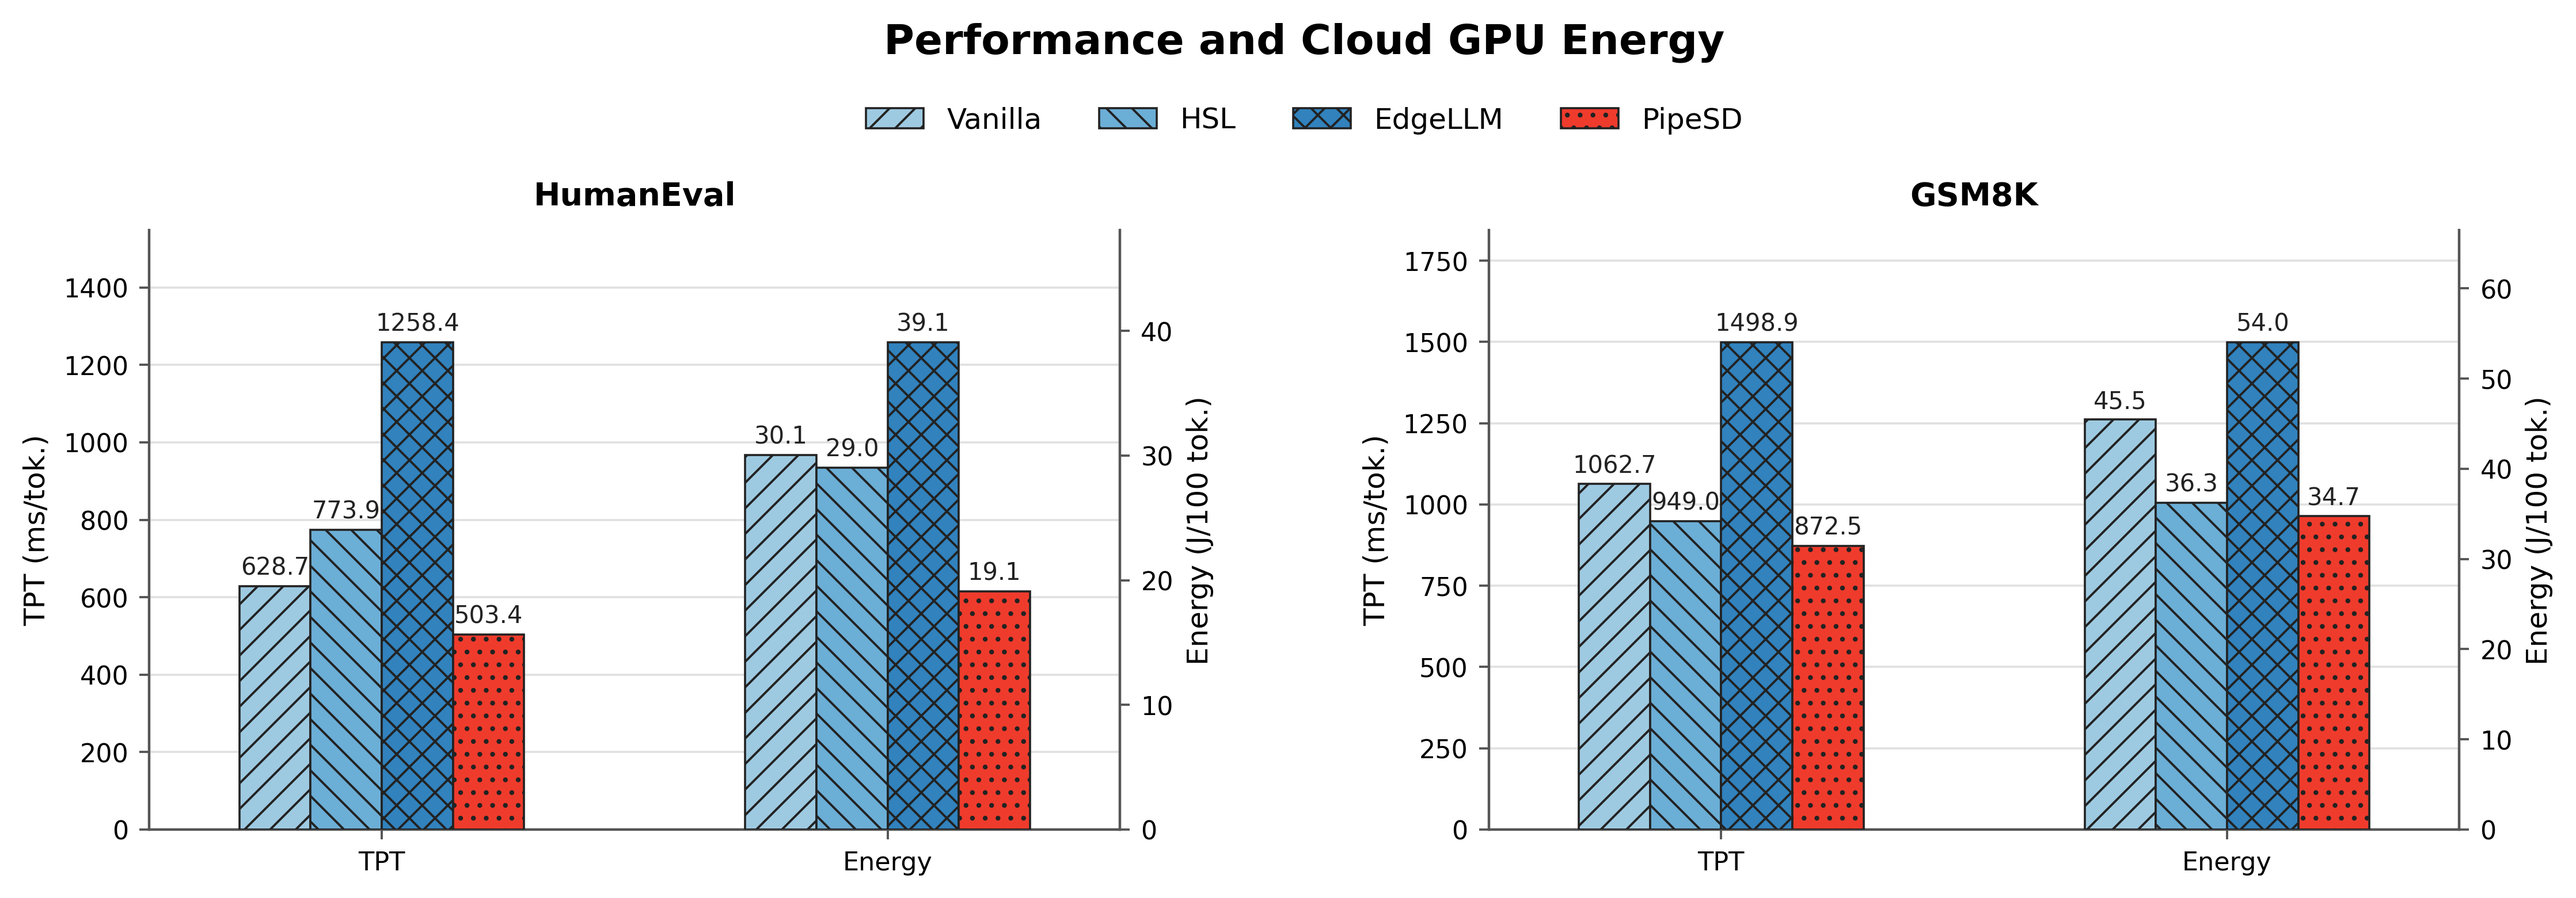
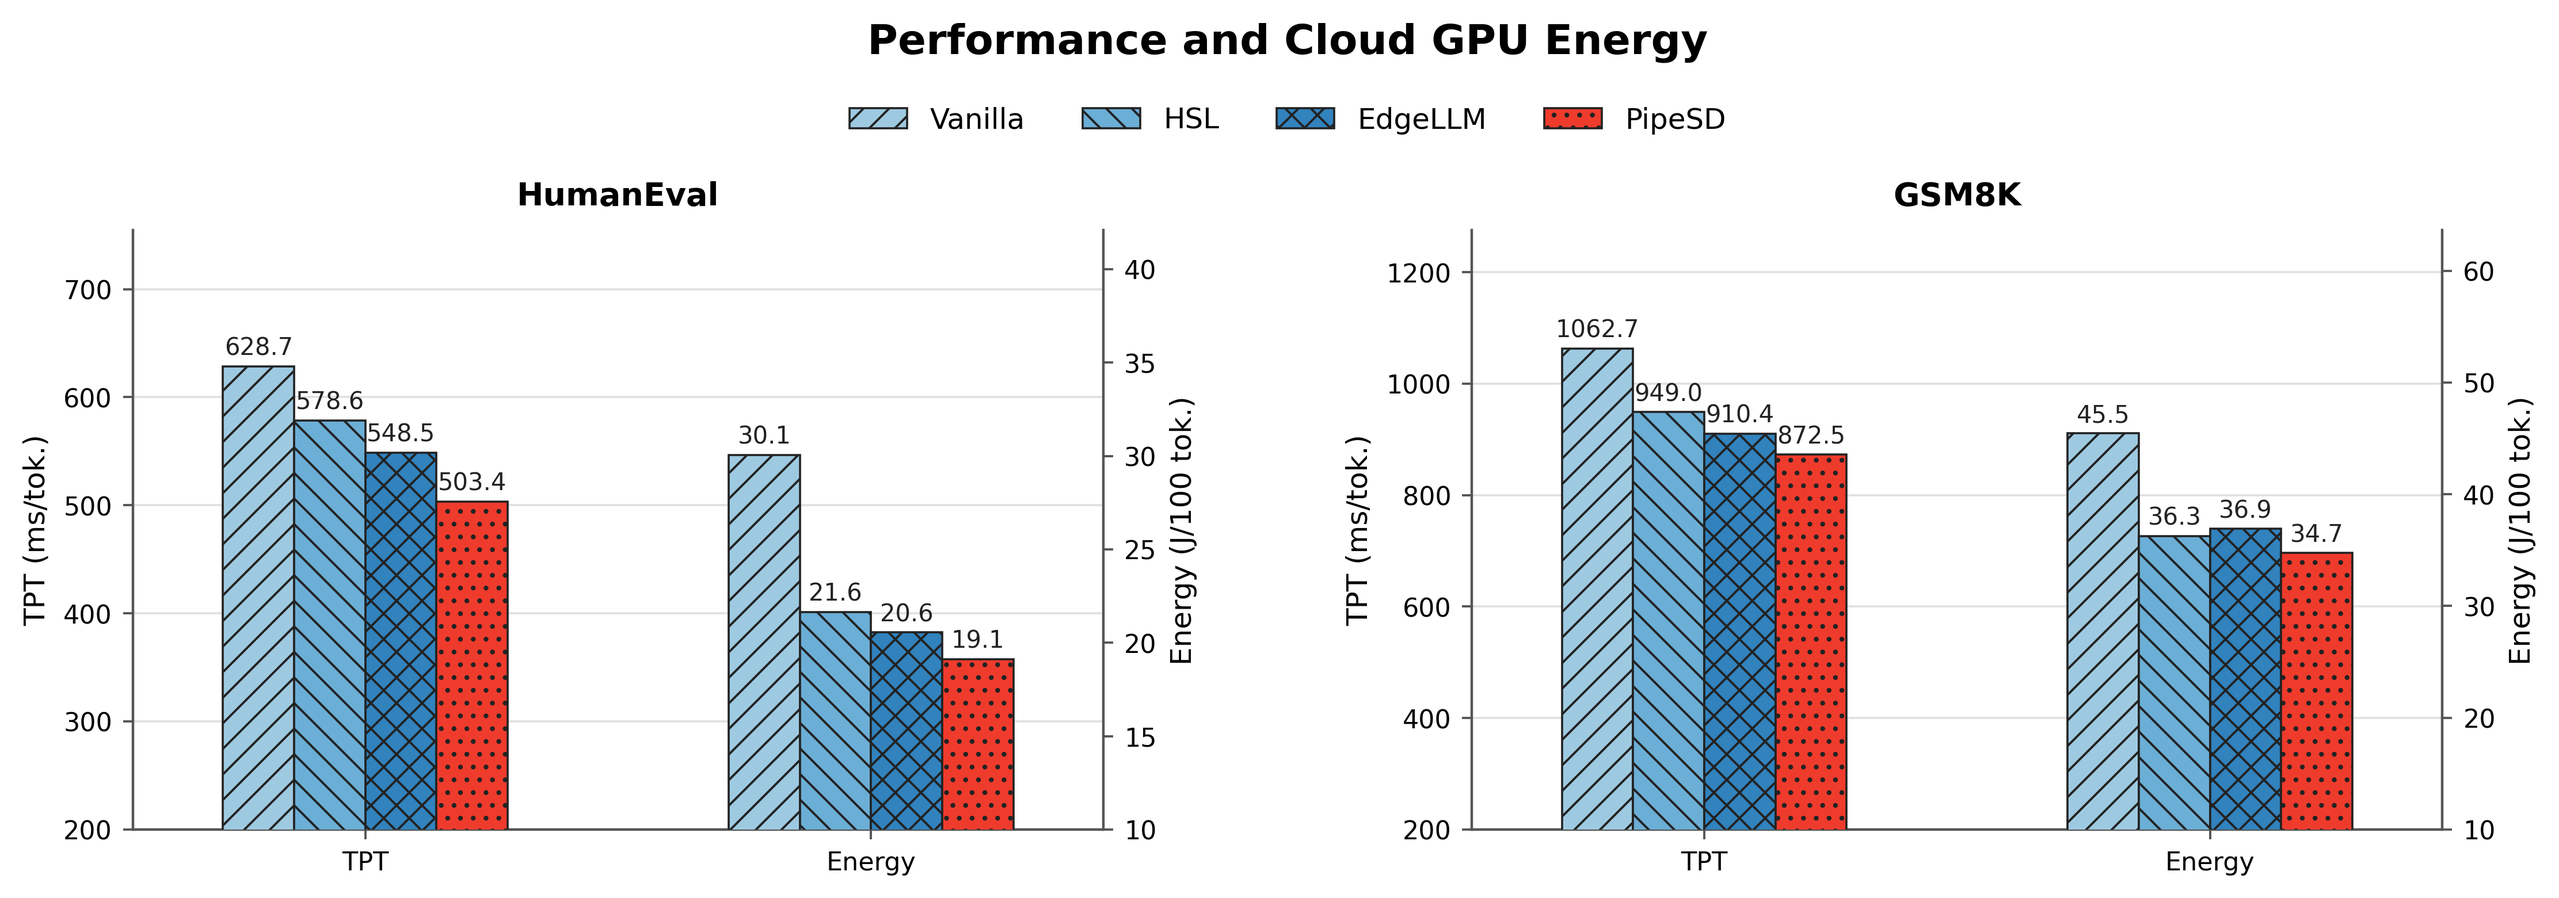
docs(metrics): refresh algorithm performance and energy figures
- update HumanEval and GSM8K baseline measurements
- adjust chart axes for the new metric ranges
- regenerate horizontal and vertical figures

diff --git a/docs/plot_final_four_algorithm_metrics.py b/docs/plot_final_four_algorithm_metrics.py
@@ -36,12 +36,12 @@ HATCHES = {
 
 PERFORMANCE_DATA = {
     "HumanEval": {
-        "TPT": [628.705, 773.934, 1258.404, 503.444],
-        "Energy": [30.060, 29.048, 39.091, 19.121],
+        "TPT": [628.705, 578.558, 548.539, 503.444],
+        "Energy": [30.060, 21.643, 20.552, 19.121],
     },
     "GSM8K": {
-        "TPT": [1062.706, 949.016, 1498.874, 872.472],
-        "Energy": [45.453, 36.254, 54.021, 34.743],
+        "TPT": [1062.706, 949.016, 910.411, 872.472],
+        "Energy": [45.453, 36.254, 36.900, 34.743],
     },
 }
 
@@ -165,8 +165,8 @@ def plot_performance_and_energy(orientation: str) -> None:
         energy_ax.set_ylabel("Energy (J/100 tok.)")
         ax.set_xticks(group_centers, ("TPT", "Energy"))
         ax.set_xlim(group_centers[0] - 0.62, group_centers[1] + 0.62)
-        ax.set_ylim(0, max(tpt_values) * 1.23)
-        energy_ax.set_ylim(0, max(energy_values) * 1.23)
+        ax.set_ylim(200, max(tpt_values) * 1.2)
+        energy_ax.set_ylim(10, max(energy_values) * 1.4)
         add_labels(ax, tpt_containers, lambda value: f"{value:.1f}", fontsize=7.5)
         add_labels(energy_ax, energy_containers, lambda value: f"{value:.1f}", fontsize=7.5)
 
